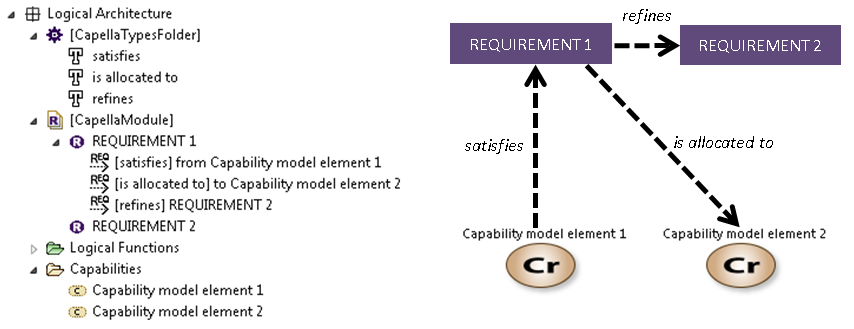
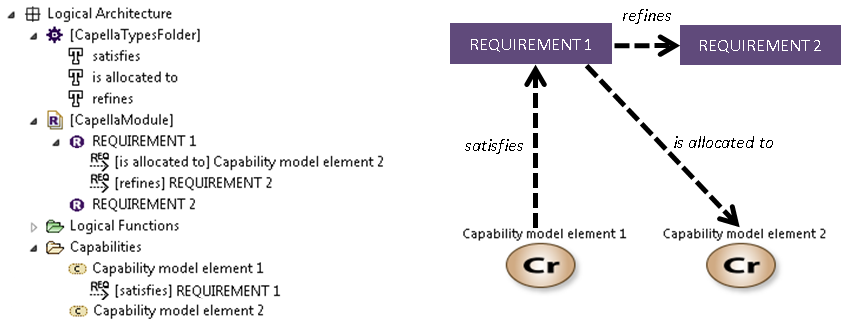
[1402] Change doc to update the meta-model
Bug: 1402

Changed region(s): [[0.0304, 0.4559, 0.4871, 0.9726]]

diff --git a/plugins/org.polarsys.capella.vp.requirements.model.edit.decorators/src/org/polarsys/capella/vp/requirements/Requirements/provider/CapellaOutgoingRelationItemProviderDecorator.java b/plugins/org.polarsys.capella.vp.requirements.model.edit.decorators/src/org/polarsys/capella/vp/requirements/Requirements/provider/CapellaOutgoingRelationItemProviderDecorator.java
@@ -39,9 +39,9 @@ public class CapellaOutgoingRelationItemProviderDecorator extends
 
     RelationType type = relation.getRelationType();
     if (type != null) {
-      return "[" + type.getReqIFLongName() + "] from " + EObjectLabelProviderHelper.getText(relation.getSource());
+      return "[" + type.getReqIFLongName() + "] " + EObjectLabelProviderHelper.getText(relation.getTarget());
     }
 
-    return "[Capella Outgoing Relation] from " + EObjectLabelProviderHelper.getText(relation.getSource());
+    return "[Capella Outgoing Relation] " + EObjectLabelProviderHelper.getText(relation.getTarget());
   }
 }

diff --git a/plugins/org.polarsys.capella.vp.requirements.model.edit.decorators/src/org/polarsys/capella/vp/requirements/Requirements/provider/CapellaIncomingRelationItemProviderDecorator.java b/plugins/org.polarsys.capella.vp.requirements.model.edit.decorators/src/org/polarsys/capella/vp/requirements/Requirements/provider/CapellaIncomingRelationItemProviderDecorator.java
@@ -39,9 +39,9 @@ public class CapellaIncomingRelationItemProviderDecorator extends
 
     RelationType type = relation.getRelationType();
     if (type != null) {
-      return "[" + type.getReqIFLongName() + "] to " + EObjectLabelProviderHelper.getText(relation.getTarget());
+      return "[" + type.getReqIFLongName() + "] " + EObjectLabelProviderHelper.getText(relation.getTarget());
     }
 
-    return "[Capella Incoming Relation] to " + EObjectLabelProviderHelper.getText(relation.getTarget());
+    return "[Capella Incoming Relation] " + EObjectLabelProviderHelper.getText(relation.getTarget());
   }
 }
